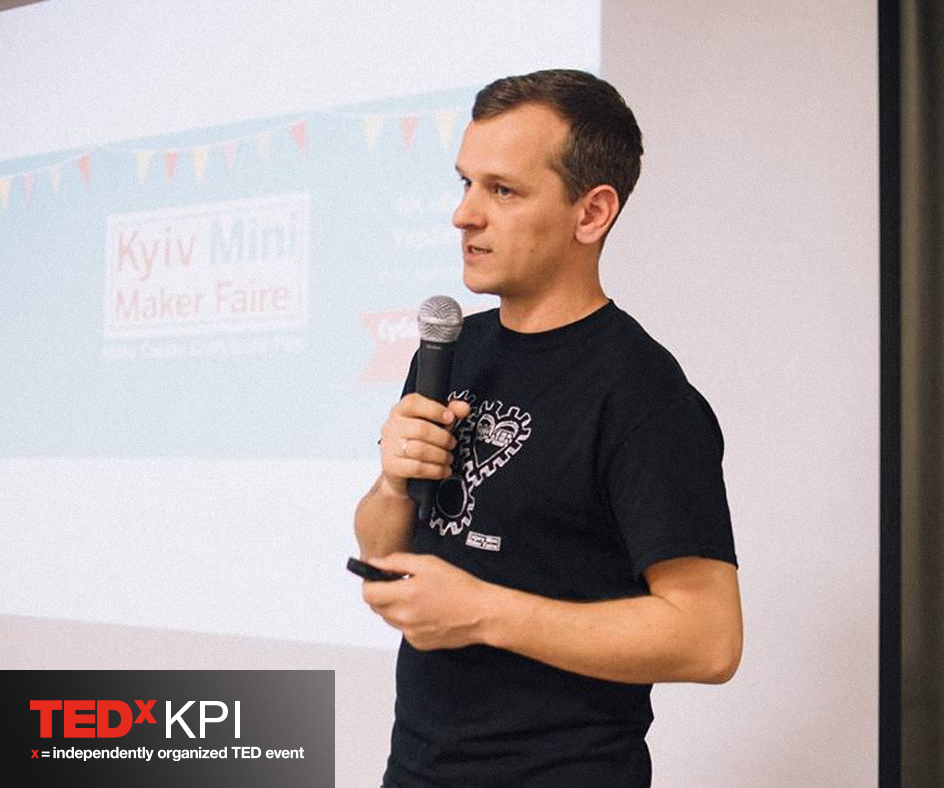
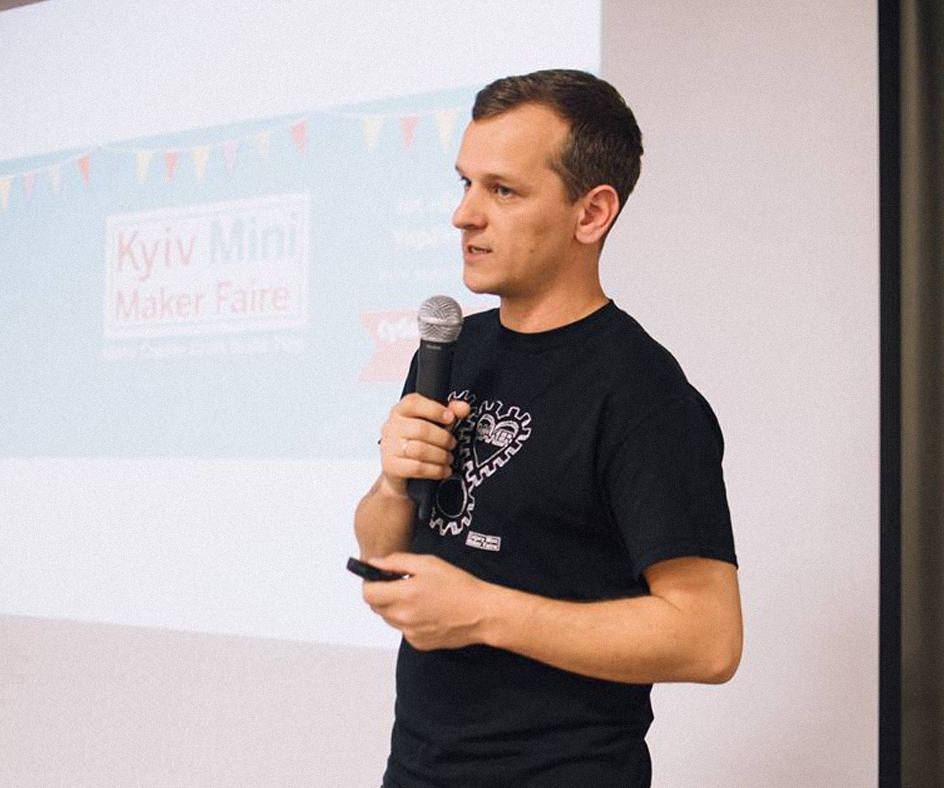
Vlasiuk add to speaker list

Changed region(s): [[0.0, 0.8528, 0.3686, 1.0]]

diff --git a/index.html b/index.html
@@ -236,10 +236,14 @@
  			</li>
  			<li class="speaker__list__item">
  				<div class="speaker__list__right">
- 					<h5 class="speaker__list__name">	Далі буде.....</h5>
+					<h5 class="speaker__list__name">Юра Власюк</h5>
+					<p class="speaker__list__text">
+						<span>Продюсер "Kyiv Mini Maker Faire" та батько двох синів.</span><br>
+					<br />Поговоримо з ним про рух мейкерства та чому це важливо для нашої країни. Чим ці знання - змінюють світ.
+					</p>
  				</div>
  				<div class="speaker__list__left">
-	 			<img class="speaker__list__img" src="lib/image/speaker/question.jpg" alt="spiker-avatar"/>
+	 			<img class="speaker__list__img" src="lib/image/speaker/vlasiuk.png" alt="spiker-avatar"/>
  				</div>
  			</li>
  		</ul>
